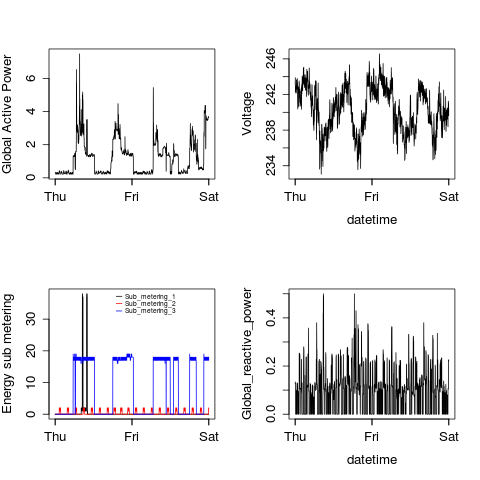
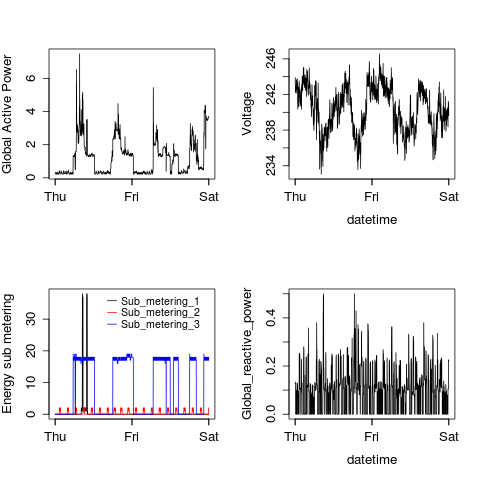
final comment in PorjectOne.md and new run of plot4.R with better legent font size

Changed region(s): [[0.2188, 0.5938, 0.4375, 0.6875]]

diff --git a/ProjectOne.md b/ProjectOne.md
@@ -153,16 +153,38 @@ par( mfcol = c(2,2))
 with( firstTwoDaysFeb2007, plot( x=datetime, y=Global_active_power,
       type="l",
       xlab="",
-      ylab="Global Active Power (kilowatts)") )
+      ylab="Global Active Power") )
 with( firstTwoDaysFeb2007, plot(x=datetime,y=Sub_metering_1,
                                 type="l",
                                 xlab="",
                                 ylab="Energy sub metering"))
 lines(x=firstTwoDaysFeb2007$datetime,y=firstTwoDaysFeb2007$Sub_metering_2,type="l",col="red")
 lines(x=firstTwoDaysFeb2007$datetime,y=firstTwoDaysFeb2007$Sub_metering_3,type="l",col="blue")
-legend(x="topright",legend=c("Sub_metering_1","Sub_metering_2","Sub_metering_3"),lty=1, col=c("black","red","blue"))
+legend(x="topright",legend=c("Sub_metering_1","Sub_metering_2","Sub_metering_3"),bty="n",lty=1, col=c("black","red","blue"))
 with(firstTwoDaysFeb2007,plot(x=datetime,y=Voltage,type="l") )
 with( firstTwoDaysFeb2007,plot(x=datetime,y=Global_reactive_power,type="l"))
 ```
 
 ![plot of chunk fourth plot](figure/fourth plot.png) 
+
+The final four R files:
+
+* plot1.R
+* plot2.R
+* plot3.R
+* plot4.R
+
+used most of the code presented here but 
+were written with the intention that each could be executed
+separately to generate the respective png file:
+
+* plot1.png
+* plot2.png
+* plot3.png
+* plot4.png
+
+Specially the font of the legend of the **Energy sub metering** plot had
+to be adjusted due to the 480 by 480 pixel size restriction of the file. 
+This was achieved with **cex=0.8** as parameter to **legend**, effectively
+setting the legend font size to 80% of the default font size for the rest of the plot.
+
